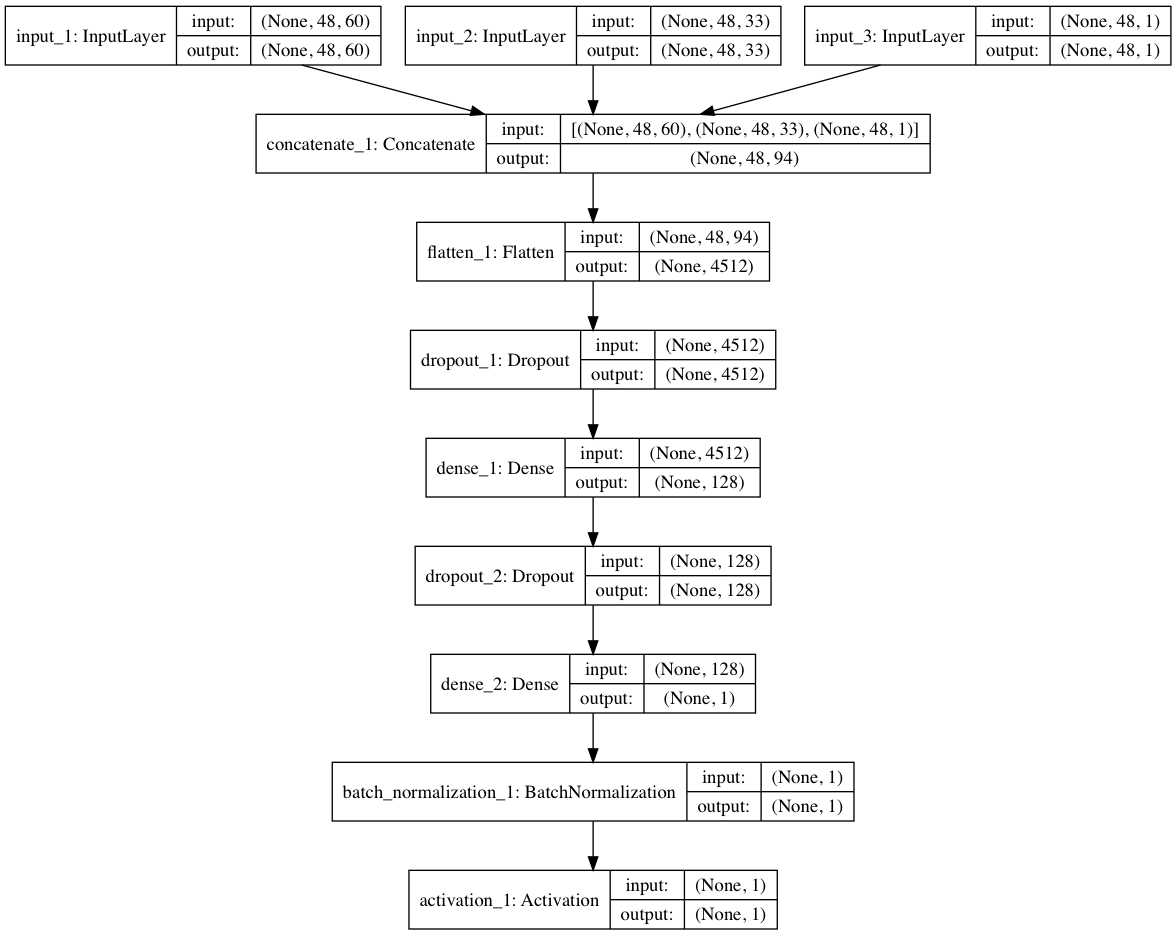
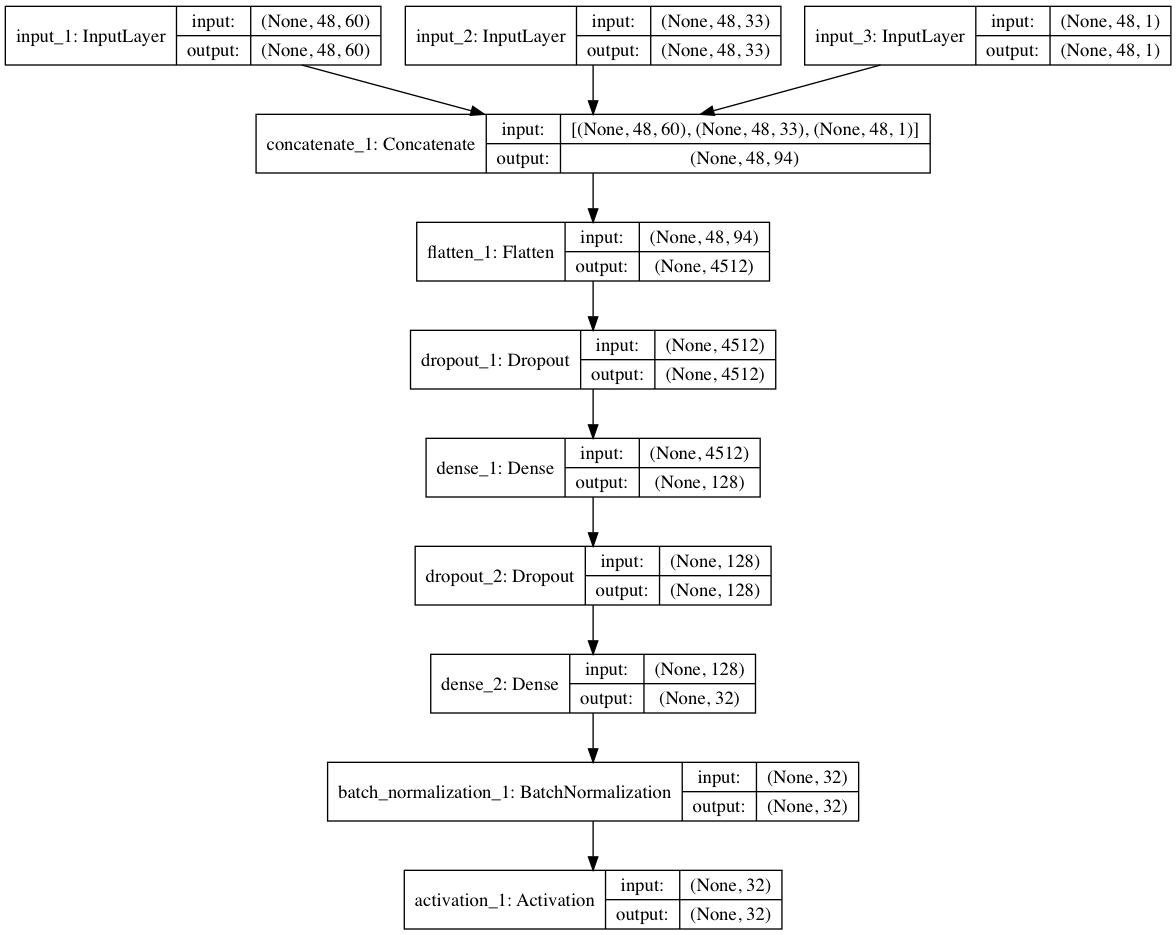
regression -> classification

Changed region(s): [[0.2755, 0.8064, 0.7347, 0.8684], [0.3367, 0.9305, 0.6735, 0.9925], [0.551, 0.7444, 0.6429, 0.7754]]

diff --git a/multiple_instruments/music_generator.py b/multiple_instruments/music_generator.py
@@ -19,6 +19,8 @@ parser.add_argument('--note_temp', type=float, default=0, required=False,
                     help='Temperture of notes.')
 parser.add_argument('--delta_temp', type=float, default=0, required=False,
                     help='Temperture of time.')
+parser.add_argument('--vol_temp', type=float, default=0, required=False,
+                    help='Temperture of velocity.')
 parser.add_argument('--temp_sd', type=float, default=0, required=False,
                     help='Standard deviation of temperture.')
 parser.add_argument('--finger_number', type=int, default=5, required=False,
@@ -43,6 +45,7 @@ tar_midi = args.output_midi_path
 noteNum  = args.n
 temperature_note = args.note_temp
 temperature_delta = args.delta_temp
+temperature_vol = args.vol_temp
 temperature_sd = args.temp_sd
 finger_limit = args.finger_number
 align = args.align
@@ -62,6 +65,7 @@ track_num=1
 maxrange=60 #[36, 95]
 vecLen=maxrange*track_num
 maxdelta=33 #[0, 32]
+maxvol=32
 
 import keras
 from keras.models import Sequential, load_model
@@ -93,7 +97,7 @@ def main():
         output.append(track[i])
     notes = np.zeros((1, segLen, vecLen))
     deltas = np.zeros((1, segLen, maxdelta))
-    powers = np.zeros((1, segLen, 1), dtype=np.float32)
+    powers = np.zeros((1, segLen, maxvol), dtype=np.bool)
     if args.init=='seed':
         seed = np.load('./seed.npz')
         seedIdx = np.random.randint(len(seed['notes']))
@@ -110,7 +114,7 @@ def main():
     tickAccum = 0
     for i in xrange(noteNum):
         pred_note, pred_time = model.predict([notes, deltas], batch_size=1, verbose=0)
-        volume = vol_model.predict([notes, deltas, powers], batch_size=1, verbose=0).flatten()[0]
+        volume = vol_model.predict([notes, deltas, powers], batch_size=1, verbose=0)
         for inst in xrange(track_num):
             zs = 1 ## how many notes play at the same time? self += 1
             for t in reversed(range(len(track[inst]))): ## this limits # of notes play at the same time
@@ -153,7 +157,7 @@ def main():
                     findLastNoteOn = track[inst][t].data[0]
                     track[inst].append(midi.NoteOffEvent(tick=0, data=[ findLastNoteOn, 0], channel=inst))
                     break
-        real_vol = int(np.clip(volume*255, 1, 255))
+        real_vol = int(np.clip(sample(volume[0], temperature_vol, temperature_sd)*8, 1, 255))
         track[inst].append(midi.NoteOnEvent(tick=delta, data=[ int(note+36), real_vol], channel=inst))
         tickAccum += delta
         last[inst] = tickAccum
@@ -164,7 +168,8 @@ def main():
         notes[0, -1, key]=1 ## set predicted event
         deltas[0, -1, :]=0 ## reset last event
         deltas[0, -1, delta]=1 ## set predicted event
-        powers[0,-1,0] = volume
+        powers[0,-1, :] = 0
+        powers[0,-1, volume] = 1
         if do_format:
             for t in reversed(range(1, segLen)):
                 rd = np.where(deltas[0, t]==1)[0][0] ## right delta

diff --git a/multiple_instruments/tools.py b/multiple_instruments/tools.py
@@ -14,6 +14,7 @@ track_num=1
 maxrange=60 ## [36, 95]
 vecLen=maxrange*track_num
 maxdelta=33 ## [0, 32]
+maxvol=32
 defaultRes=16.0
 
 def Tempo2BPM(x):
@@ -24,8 +25,6 @@ def Tempo2BPM(x):
 
 def pattern2map(pattern, maxtick):
     ResScale = float(pattern.resolution) / float(defaultRes)
-    vol_min=1e9
-    vol_max=-1
     data=[(0,0,0)]#tick , key (main+accompany), vol
     for track in pattern: ## main melody if instrument==0 else accompany
         temp=[(0,0,0)] #tick, note, vol
@@ -51,8 +50,6 @@ def pattern2map(pattern, maxtick):
             elif isinstance(v, midi.NoteOnEvent) and v.data[0]>=36 and v.data[0]<=95 and v.data[1]>0:
                 note = v.data[0]-36
                 vol  = v.data[1]
-                vol_min = min(vol_min, vol)
-                vol_max = max(vol_max, vol)
                 tick = int(round(accumTick/ResScale))
                 temp.append((tick, note, vol))
         temp = temp[1:-1]
@@ -63,7 +60,7 @@ def pattern2map(pattern, maxtick):
         tick = data[i+1][0] - data[i][0]
         tick = int(maxtick if tick>maxtick else tick) ## set a threshold
         note = int(data[i+1][1])
-        vol  = float(data[i+1][2]-vol_min+1) / float(vol_max-vol_min+1)
+        vol  = int(np.clip(data[i+1][2]//8, 0, maxvol-1))
         data[i] = (tick,note, vol)
     data = data[0:-2] ## data must have two elements. ow crashs
     return data
@@ -129,20 +126,20 @@ def makeSegment(data, maxlen, step, valid=False):
 def seg2vec(segment, nextseg, segLen, vecLen, maxdelta):
     notes = np.zeros((len(segment), segLen, vecLen), dtype=np.bool)
     times = np.zeros((len(segment), segLen, maxdelta), dtype=np.bool)
-    powers = np.zeros((len(segment), segLen, 1), dtype=np.float32)
+    powers = np.zeros((len(segment), segLen, maxvol), dtype=np.bool)
 
     notes_n = np.zeros((len(segment), vecLen), dtype=np.bool)
     times_n = np.zeros((len(segment), maxdelta), dtype=np.bool)
-    powers_n = np.zeros((len(segment), 1), dtype=np.float32)
+    powers_n = np.zeros((len(segment), maxvol), dtype=np.bool)
     for i, seg in enumerate(segment):
         for t, note in enumerate(seg):
             if note[0]==-1 or note[1]==-1: continue
             times[i, t, int(note[0])] = 1
             notes[i, t, int(note[1])] = 1
-            powers[i, t, 0] = note[2]
+            powers[i, t, int(note[2])] = 1
         times_n[i, int(nextseg[i][0])] = 1
         notes_n[i, int(nextseg[i][1])] = 1
-        powers_n[i, 0] = nextseg[i][2]
+        powers_n[i, int(nextseg[i][2])] = 1
     return notes, times, powers, notes_n, times_n, powers_n
 
 

diff --git a/multiple_instruments/train.py b/multiple_instruments/train.py
@@ -54,6 +54,7 @@ step_size=1
 segLen=48
 track_num=1
 maxrange=60 ## [36, 95]
+maxvol=32
 vecLen=maxrange*track_num
 maxdelta=33 ## [0, 32]
 batch_size = args.batch_size
@@ -108,9 +109,9 @@ def main():
     c1 = Dropout(drop_rate)(c1)
     fc1 = Dense(128, activation='relu')(c1)
     fc2 = Dropout(drop_rate)(fc1)
-    fc_vol = Dense(1)(fc2)
+    fc_vol = Dense(maxvol)(fc2)
     fc_vol = BatchNormalization()(fc_vol)
-    fc_vol = Activation('sigmoid')(fc_vol)
+    fc_vol = Activation('softmax')(fc_vol)
 
     aiComposer = Model([noteInput, deltaInput, volInput], fc_vol)
     checkPoint = ModelCheckpoint(filepath="top_weight.h5", verbose=1, save_best_only=True, save_weights_only=True, period=1)
@@ -122,7 +123,7 @@ def main():
 
     ## compile models:
     aiComposer.compile(
-            loss = 'mse',
+            loss = 'categorical_crossentropy',
             optimizer=optimizer)
 
     for ite in xrange(loops):

diff --git a/multiple_instruments/load.py b/multiple_instruments/load.py
@@ -45,9 +45,9 @@ c1 = Flatten()(c1)
 c1 = Dropout(drop_rate)(c1)
 fc1 = Dense(128, activation='relu')(c1)
 fc2 = Dropout(drop_rate)(fc1)
-fc_vol = Dense(1)(fc2)
+fc_vol = Dense(32)(fc2)
 fc_vol = BatchNormalization()(fc_vol)
-fc_vol = Activation('sigmoid')(fc_vol)
+fc_vol = Activation('softmax')(fc_vol)
 
 aiComposer = Model([noteInput, deltaInput, volInput], fc_vol)
 if ( os.path.isfile('./top_weight.h5')):  ## fine-tuning

diff --git a/multiple_instruments/summary.py b/multiple_instruments/summary.py
@@ -45,9 +45,9 @@ c1 = Flatten()(c1)
 c1 = Dropout(drop_rate)(c1)
 fc1 = Dense(128, activation='relu')(c1)
 fc2 = Dropout(drop_rate)(fc1)
-fc_vol = Dense(1)(fc2)
+fc_vol = Dense(32)(fc2)
 fc_vol = BatchNormalization()(fc_vol)
-fc_vol = Activation('sigmoid')(fc_vol)
+fc_vol = Activation('softmax')(fc_vol)
 
 aiComposer = Model([noteInput, deltaInput, volInput], fc_vol)
 aiComposer.summary()
